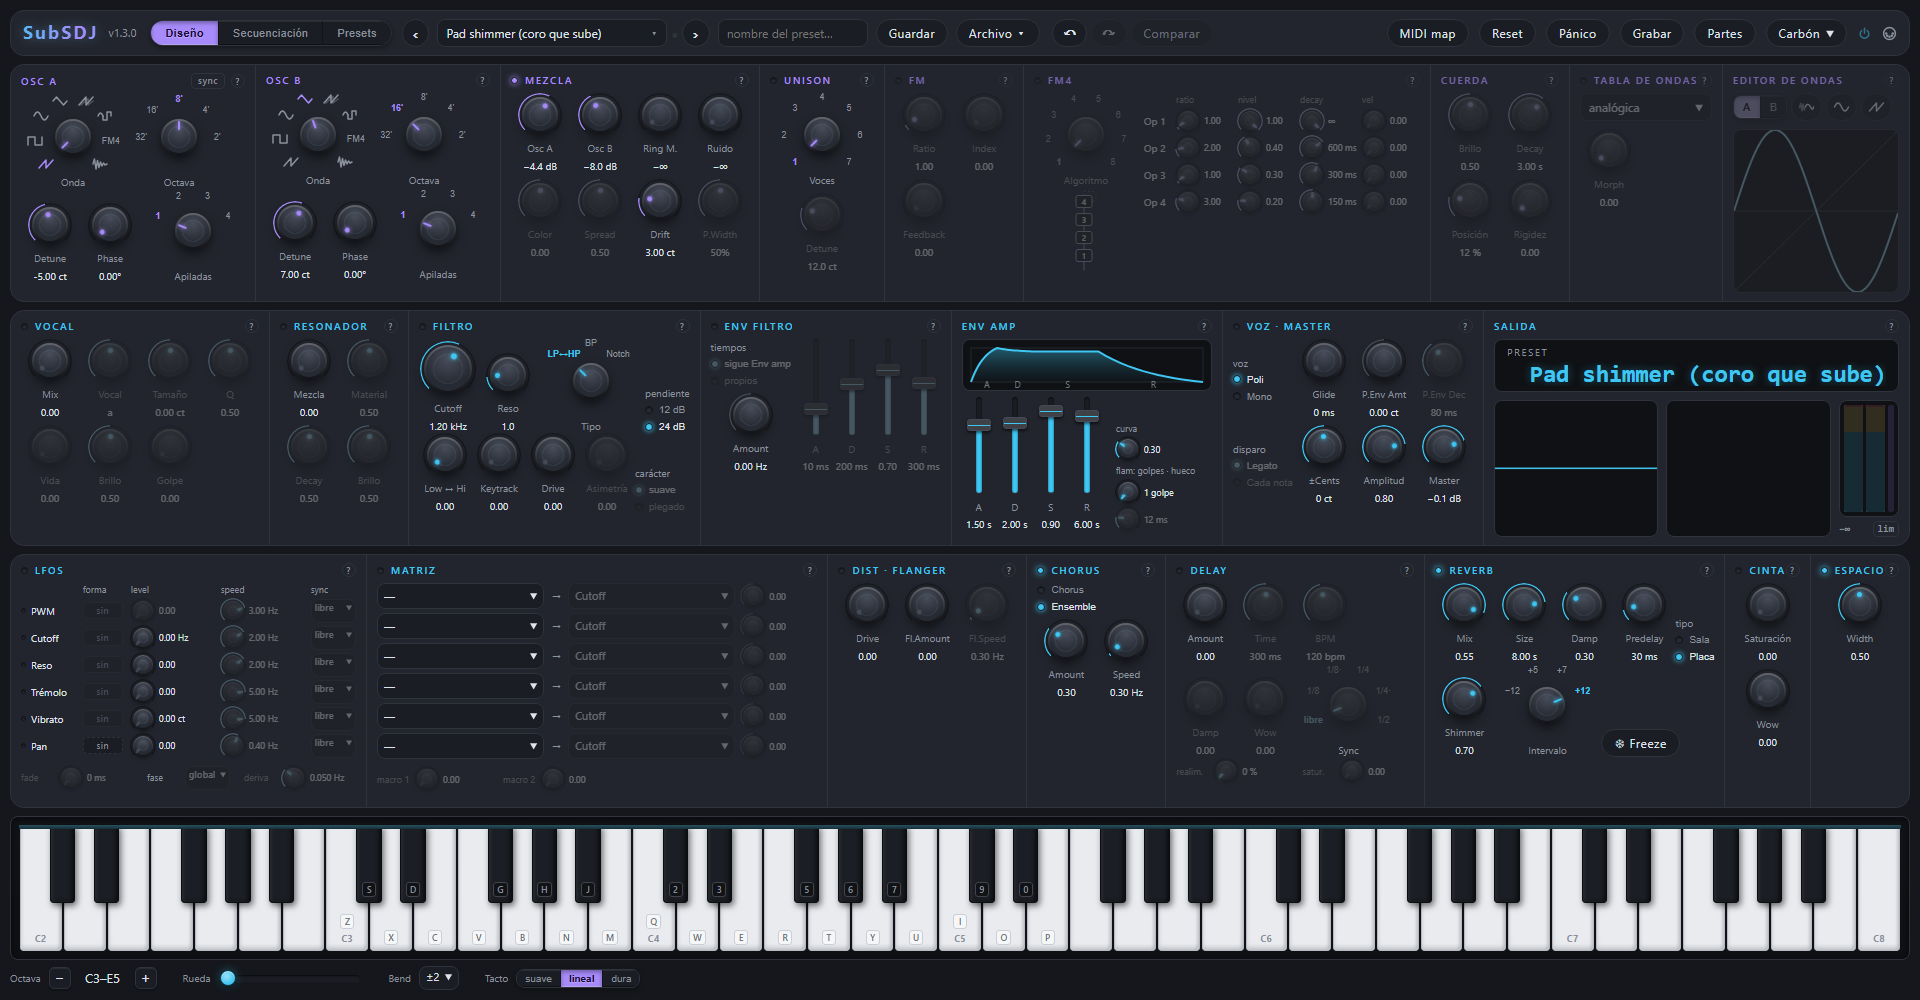
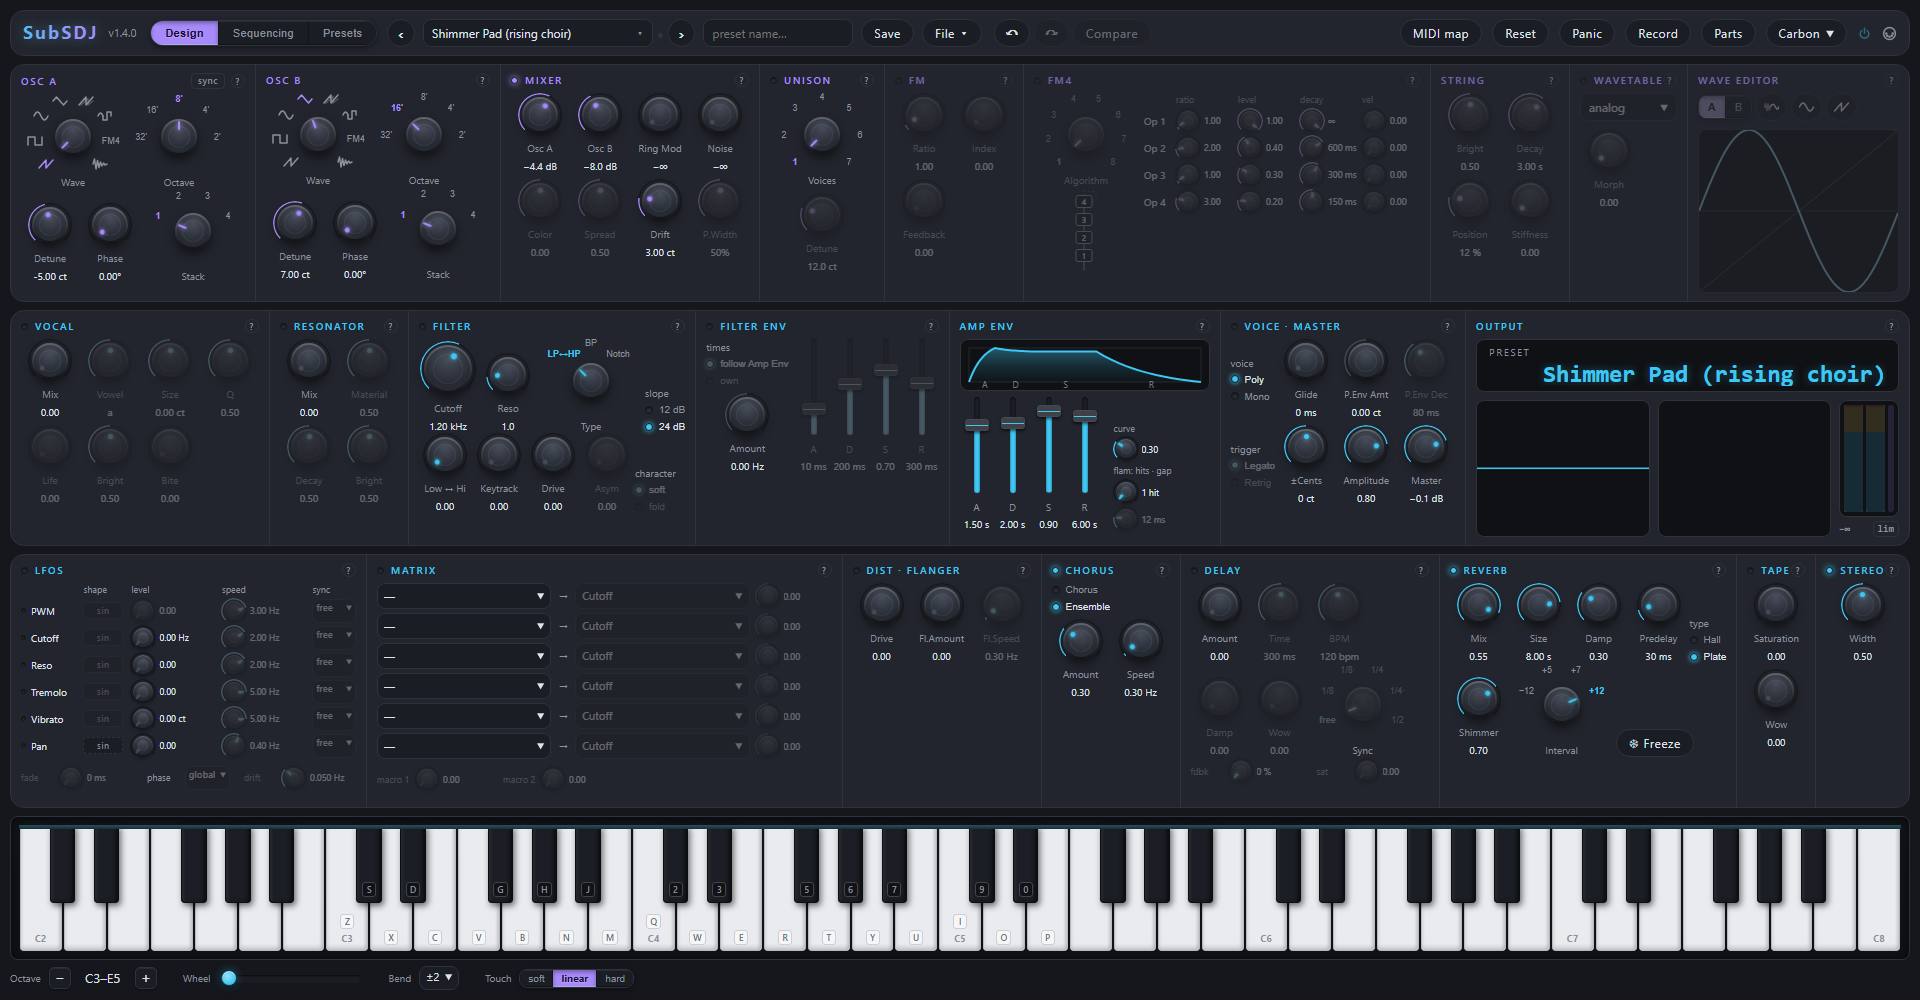
SubSDJ 1.4.0: in English
The interface, the factory bank, the data it saves, the code, its comments
and the docs are in English; everything saved with 1.3.0 or earlier keeps
loading and sounding the same (engine/legacy.js translates it on load).
The A/B demos leave the main library (File > Import). Screenshots redone in
English. Selftest 217/217.

Claude-Session: https://claude.ai/code/session_01M6A5azkcua1rbsJivx5TQp

diff --git a/js/version.js b/js/version.js
@@ -1,4 +1,4 @@
 // SubSDJ version: X.Y.Z (criteria in docs/DESIGN.md, «Versiones y publicación»).
 // It is shown next to the title, and the selftest requires it to be the first CHANGELOG entry.
-export const VERSION = '1.3.0';
-export const RELEASE = '2026-10-25';   // release date (the CHANGELOG one): shown by the welcome window
+export const VERSION = '1.4.0';
+export const RELEASE = '2026-10-26';   // release date (the CHANGELOG one): shown by the welcome window

diff --git a/CHANGELOG.md b/CHANGELOG.md
@@ -6,7 +6,10 @@ features, **X** = something saved stops loading or sounding the same (presets,
 scenes, libraries, MIDI maps). The why behind each module is in
 [docs/DESIGN.md](docs/DESIGN.md), the development notebook.
 
-## Unreleased
+## [1.4.0] — 2026-10-26
+
+SubSDJ speaks English: the interface, the factory bank, the data it saves, the code and
+the docs. Everything saved with earlier versions keeps loading and sounding the same.
 
 - **SubSDJ is now in English**: the whole interface (labels, tooltips, the «?»
   help, messages), the factory presets and their categories, the sequencer
@@ -19,8 +22,9 @@ scenes, libraries, MIDI maps). The why behind each module is in
   maps now store their keys and values in English. Everything saved with
   1.3.0 or earlier — your library in the browser, exported files, scenes, MIDI
   maps — is translated when it loads and sounds exactly the same; your old
-  library stays untouched in the browser as a copy. Files exported from now on
-  don't open in 1.3.0.
+  library stays untouched in the browser as a copy. Factory presets you didn't
+  rename get their English names; the ones you created keep the names you gave
+  them. Files exported from now on don't open in 1.3.0.
 - **The A/B demos leave the main library**: they are test pairs, not
   instruments. They can still be loaded with File ▾ → Import
   (`subsdj-demos.json`).
